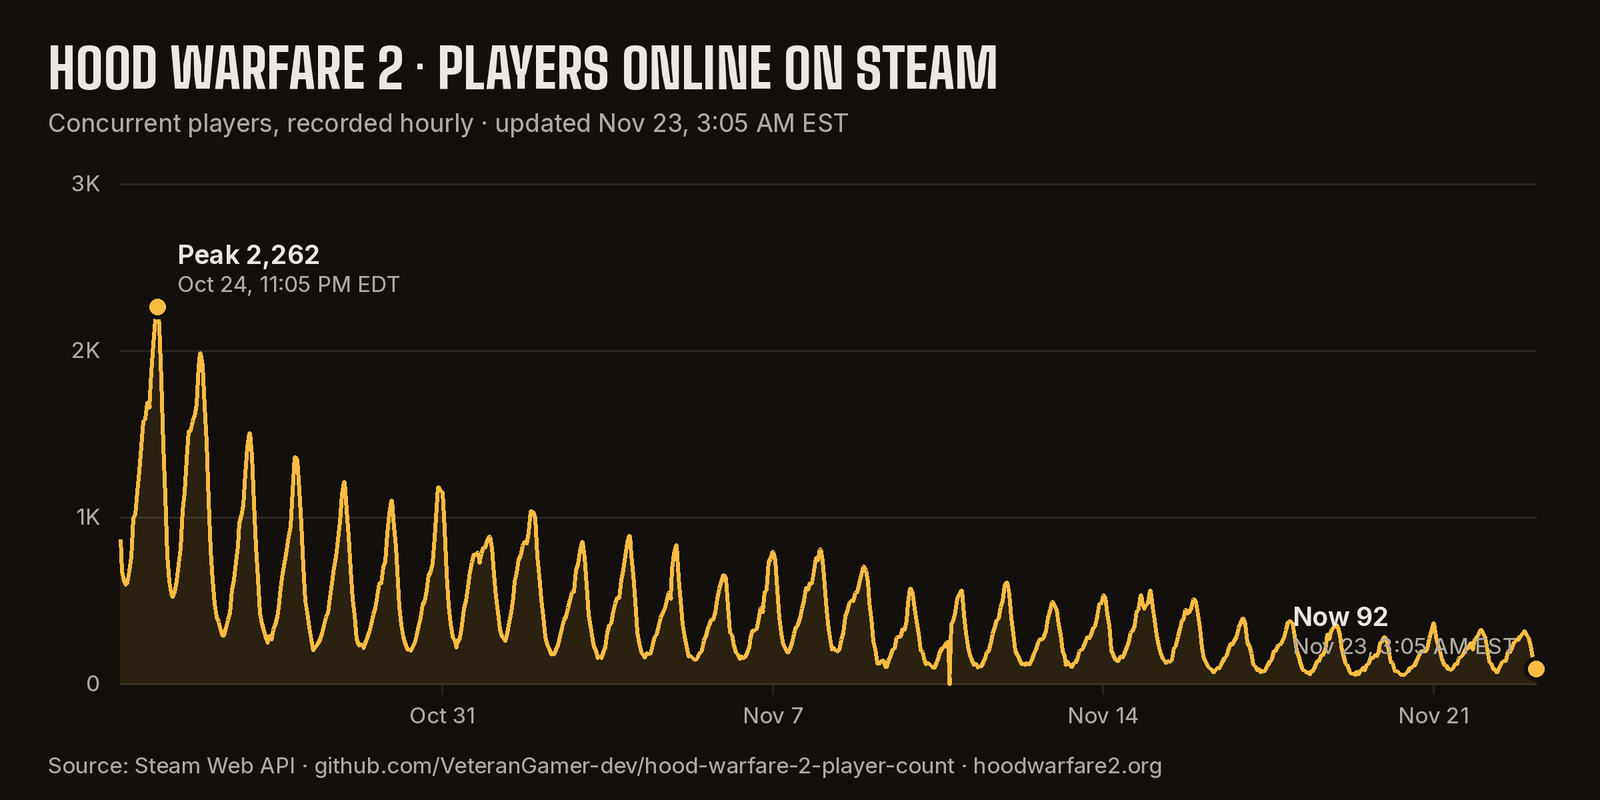
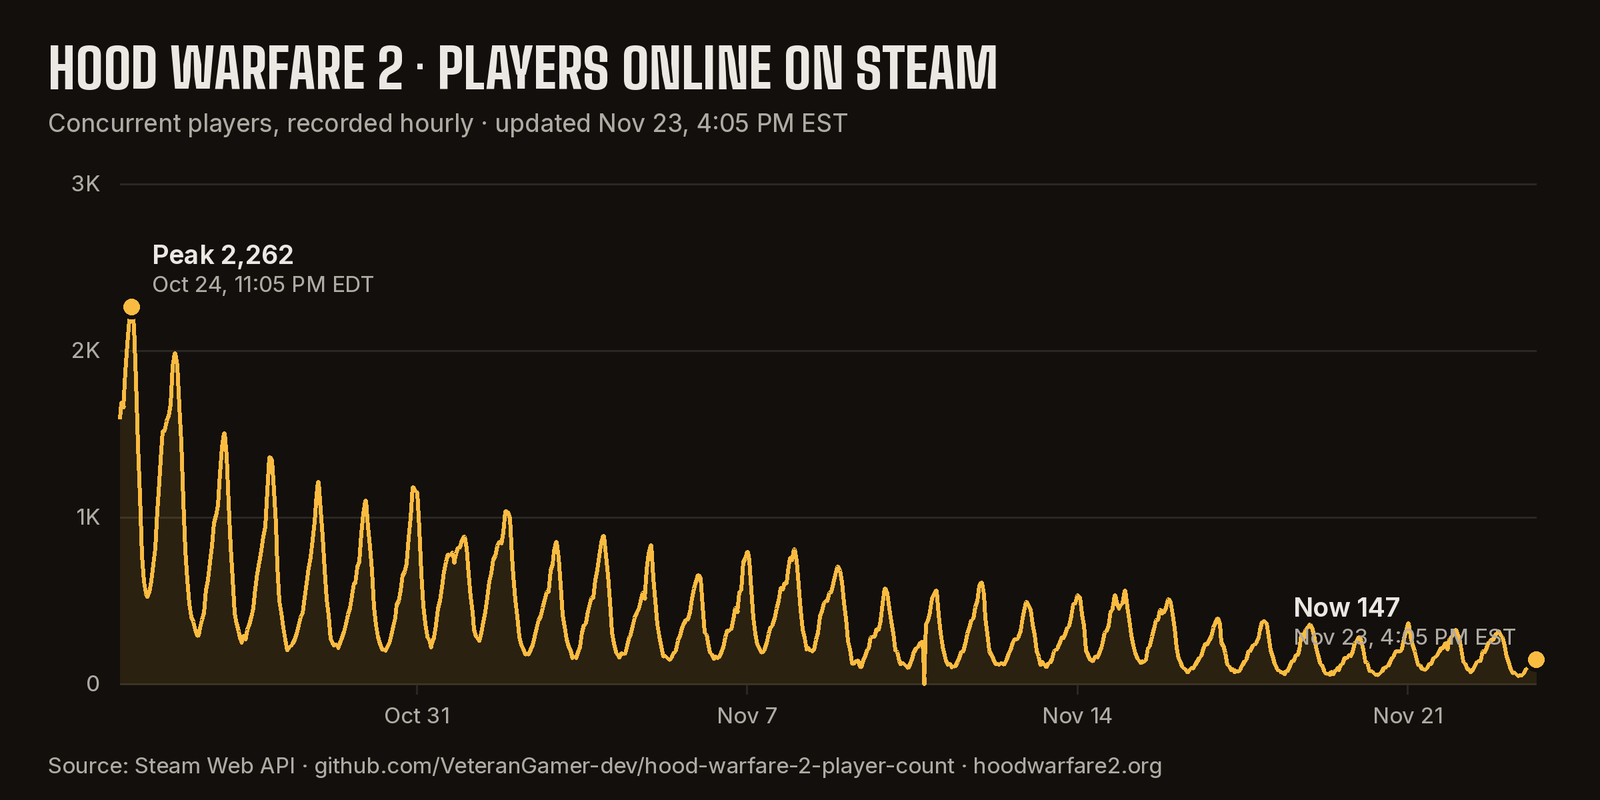
Sync: latest 2026-11-23T21:05:06Z,147,steam_api

diff --git a/README.md b/README.md
@@ -7,11 +7,11 @@ How many people are playing [Hood Warfare 2](https://store.steampowered.com/app/
 <!-- stats:start -->
 | | Players | When (US Eastern) |
 |---|---:|---|
-| Latest reading | **92** | Nov 23, 2026, 3:05 AM EST |
+| Latest reading | **147** | Nov 23, 2026, 4:05 PM EST |
 | Peak in the last 24 hours | 317 | Nov 22, 2026, 9:05 PM EST |
 | Highest reading recorded | 15,058 | Oct 13, 2026, 10:05 PM EDT |
 
-991 readings since Oct 12, 2026, 9:04 AM EDT.
+1,004 readings since Oct 12, 2026, 9:04 AM EDT.
 <!-- stats:end -->
 
 ## Before this tracker started
